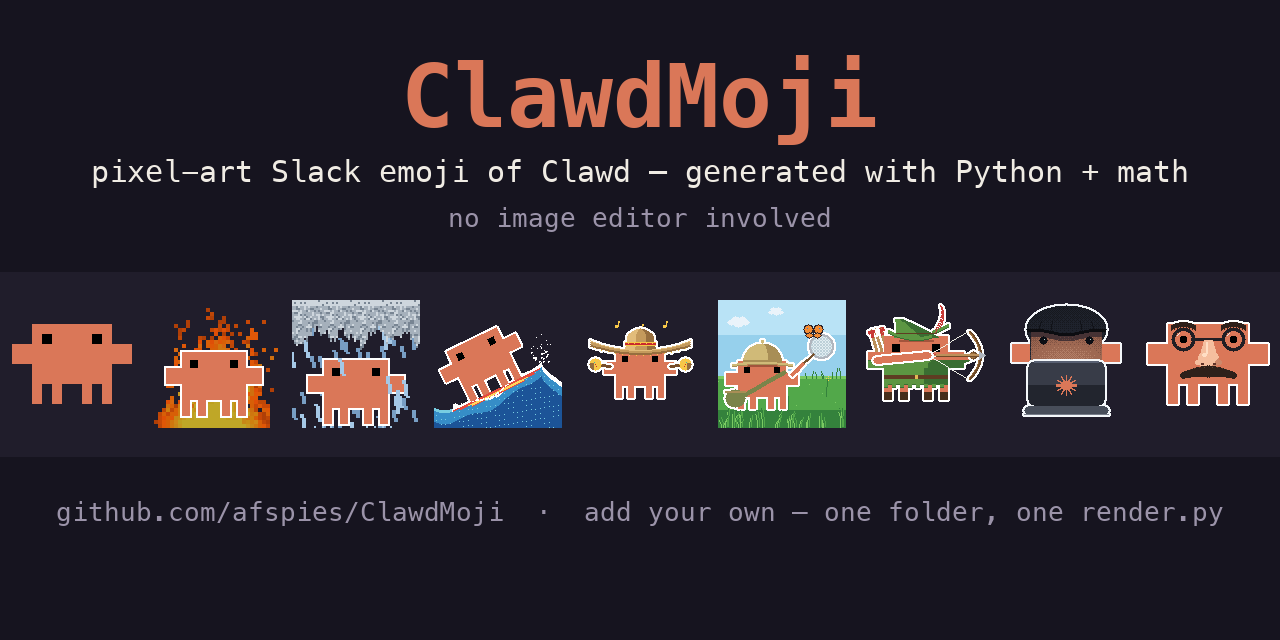
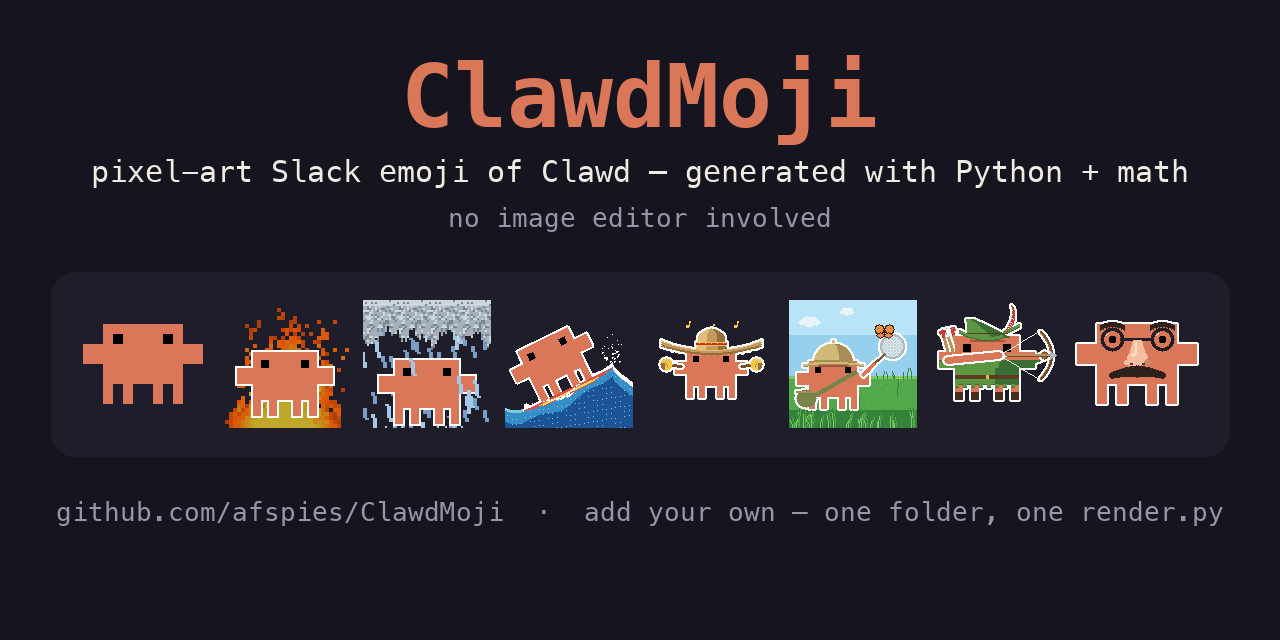
Retire Clawd Injection pending a rework
The hooded-hacker concept needs another pass before it earns a slot
in the cast. The implementation lives on at df2d2c8 (emoji/hacker/);
a tracking issue carries the concept + pointers for reimplementation.

Changed region(s): [[0.0, 0.4688, 1.0, 0.6875]]

diff --git a/docs/index.html b/docs/index.html
@@ -89,13 +89,6 @@
         <a class="dl" href="https://raw.githubusercontent.com/afspies/ClawdMoji/main/emoji/robinhood/clawd_robinhood.gif" download>download</a>
       </div>
       <div class="card">
-        <img src="https://raw.githubusercontent.com/afspies/ClawdMoji/main/emoji/hacker/clawd_hacker.gif" alt="Clawd Injection" width="128" height="128">
-        <h2>Clawd Injection 💉</h2>
-        <p>Hood up, face lit by the glow from the back of his laptop.</p>
-        <button class="name" data-name=":clawd-injection:" title="click to copy">:clawd-injection:</button>
-        <a class="dl" href="https://raw.githubusercontent.com/afspies/ClawdMoji/main/emoji/hacker/clawd_hacker.gif" download>download</a>
-      </div>
-      <div class="card">
         <img src="https://raw.githubusercontent.com/afspies/ClawdMoji/main/emoji/notclawd/clawd_notclawd.gif" alt="Definitely Not Clawd" width="128" height="128">
         <h2>Definitely Not Clawd 🥸</h2>
         <p>Glasses, nose, moustache — the disguise is impenetrable.</p>

diff --git a/tools/gen_gallery.py b/tools/gen_gallery.py
@@ -5,11 +5,11 @@ emoji/*/meta.json.
 Each emoji folder owns a small meta.json:
 
     {
-      "order": 8,                       # gallery position
-      "title": "Clawd Injection",       # display name
-      "emoji": "\U0001f489",            # flair emoji ("" for none)
-      "slack": "clawd-injection",       # suggested :name:
-      "file": "clawd_hacker.gif",       # the output to show
+      "order": 7,                       # gallery position
+      "title": "Clawdin Hood",          # display name
+      "emoji": "\U0001f3f9",            # flair emoji ("" for none)
+      "slack": "clawd-robinhood",       # suggested :name:
+      "file": "clawd_robinhood.gif",    # the output to show
       "blurb": "one-liner",             # used on the docs site
       "author": "afspies"               # github handle
     }

diff --git a/README.md b/README.md
@@ -12,10 +12,8 @@ logo. No image editor involved.
 | **Original Clawdster** | **This is Clawd** 🔥 | **London Clawd** 🌧️ | **Clawd Surfing** 🏄 |
 |:---:|:---:|:---:|:---:|
 | ![base](emoji/base/clawd_emoji.png) | ![fire](emoji/fire/clawd_fire.gif) | ![rain](emoji/rain/clawd_rain.gif) | ![surf](emoji/surf/clawd_surf.gif) |
-| **Mariachlawd** 🪇 | **Bug Claught** 🦋 | **Clawdin Hood** 🏹 | **Clawd Injection** 💉 |
-| ![mariachi](emoji/mariachi/clawd_mariachi.gif) | ![bugcatcher](emoji/bugcatcher/clawd_bugcatcher.gif) | ![robinhood](emoji/robinhood/clawd_robinhood.gif) | ![hacker](emoji/hacker/clawd_hacker.gif) |
-| **Definitely Not Clawd** 🥸 |  |  |  |
-| ![notclawd](emoji/notclawd/clawd_notclawd.gif) |  |  |  |
+| **Mariachlawd** 🪇 | **Bug Claught** 🦋 | **Clawdin Hood** 🏹 | **Definitely Not Clawd** 🥸 |
+| ![mariachi](emoji/mariachi/clawd_mariachi.gif) | ![bugcatcher](emoji/bugcatcher/clawd_bugcatcher.gif) | ![robinhood](emoji/robinhood/clawd_robinhood.gif) | ![notclawd](emoji/notclawd/clawd_notclawd.gif) |
 <!-- gallery:end -->
 
 Browse the **[live gallery](https://afspies.github.io/ClawdMoji/)** (GIFs
@@ -197,24 +195,6 @@ The **loop is seamless by construction**: full-draw (the aim) is identical at
 (`(1−smoothstep)·(1+sin)`) brings it back to the draw by the last frame, and the
 loosed arrow clears the right edge before the loop wraps — so only a fresh nocked
 arrow re-appears, the natural "re-load" beat.
-
-### Clawd Injection 💉 — [`hacker/render.py`](emoji/hacker/render.py)
-Hacker Clawd: hood up, face lit only by his laptop — which we see **from the
-back**, the screen hidden, an Anthropic spark where an apple would go. Full 128
-grid (`CELL=1`), everything a multiple of `SCALE` (`sc(v) = round(v·SCALE/7)`):
-- **hoodie:** the authentic Clawd silhouette recoloured into dark fabric, plus a
-  hood dome that **dips to a point over the brow** and casts a shadow band on
-  his face; drape folds and ordered dithering give it a knit texture. His little
-  orange **side-hands** (the `ART` rows 2–3 bumps) poke out below.
-- **laptop:** a slab-and-lid seen from behind, with the **Anthropic spark** in
-  clay-orange on the lid — static, like the real logo, not part of the light show.
-- **glow:** the screen light is modelled as a wash escaping over the lid's top
-  edge — a flat directional falloff `1/(1+(dy/DY)²+(dx/DX)²)`, not a spotlight —
-  and each material (skin, brow shadow, hood, seam) is swept through its own
-  dark→lit ramp per frame, **Bayer-dithered** so the gradient never bands.
-
-The **loop is seamless by construction**: the glow level is a pure sinusoid in
-`f/F` (a gentle two-harmonic breathe), so frame 0 and frame F match exactly.
 
 ---
 

diff --git a/CONTRIBUTING.md b/CONTRIBUTING.md
@@ -27,8 +27,7 @@ and someone (possibly a passing Claude) may build it.
    existing renderers for patterns worth stealing:
    - rigid prop attached to Clawd (sombrero: [`mariachi`](emoji/mariachi/render.py))
    - rotating limb assemblies (net swing: [`bugcatcher`](emoji/bugcatcher/render.py))
-   - recolouring the sprite into a costume (tunic: [`robinhood`](emoji/robinhood/render.py),
-     hoodie: [`hacker`](emoji/hacker/render.py))
+   - recolouring the sprite into a costume (tunic: [`robinhood`](emoji/robinhood/render.py))
    - full opaque scenes (meadow: [`bugcatcher`](emoji/bugcatcher/render.py))
    - simulations behind Clawd (Doom-fire: [`fire`](emoji/fire/render.py))
 